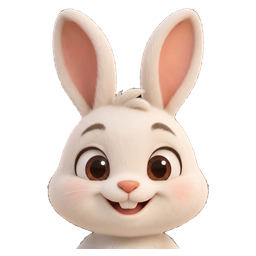
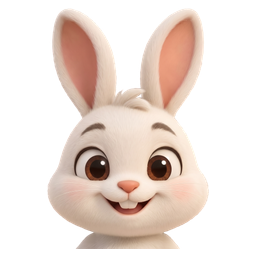
Son iki maskot pozunu da saydam PNG'den üret (#96)
`kafa` ve `ziplayan` siyah zeminli JPEG'den geliyordu; zemin taşırılarak
silinince kulak ve pati kenarlarında koyu bir hare kalıyordu. Temiz kaynaklar
geldi, ikisi de PNG'ye geçti ve betikteki JPEG/zemin silme dalı tümüyle
kaldırıldı.

Claude-Session: https://claude.ai/code/session_01EWFCSiw3C5NYcRJipW3jkk

diff --git a/AGENTS.md b/AGENTS.md
@@ -169,10 +169,11 @@ kullanılıyor: `ziplayan` ana sayfada günlük hedefi tutturan kullanıcıya
 çıkıyor, `sevinen` başka yerlerde duruyor. Tek poza indirilseydi aynı görsel
 iki ayrı bağlamda tekrarlanırdı.
 
-**İki poz hâlâ JPEG'den geliyor.** `kafa` ve `ziplayan`ın temiz (saydam PNG)
-kaynağı yok; `maskot-uret.mjs` yalnızca bu ikisi için siyah zemini kenardan
-taşırarak siliyor — öteki pozlarda #70 ile bırakılan yöntem. Temiz PNG'leri
-gelince kaynak adı değişip o dal silinmeli.
+**Bütün pozlar saydam PNG'den geliyor.** `kafa` ve `ziplayan` bir süre siyah
+zeminli JPEG'den geliyordu ve betik yalnızca o ikisi için zemini kenardan
+taşırarak siliyordu; kulak ve pati kenarlarında koyu bir hare bırakıyordu.
+Temiz kaynakları gelince JPEG dalı betikten tümüyle silindi — yeni bir poz
+eklerken kaynak saydam PNG olmak zorunda, betikte zemin silecek bir şey yok.
 
 Kaynak klasöründeki her kaynak kullanılmıyor. Dışarıda kalan "sinirli" bilerek
 kaldı: uygulamada karşılığı olan bir ruh hâli değil — Rabi yanlış cevapta
